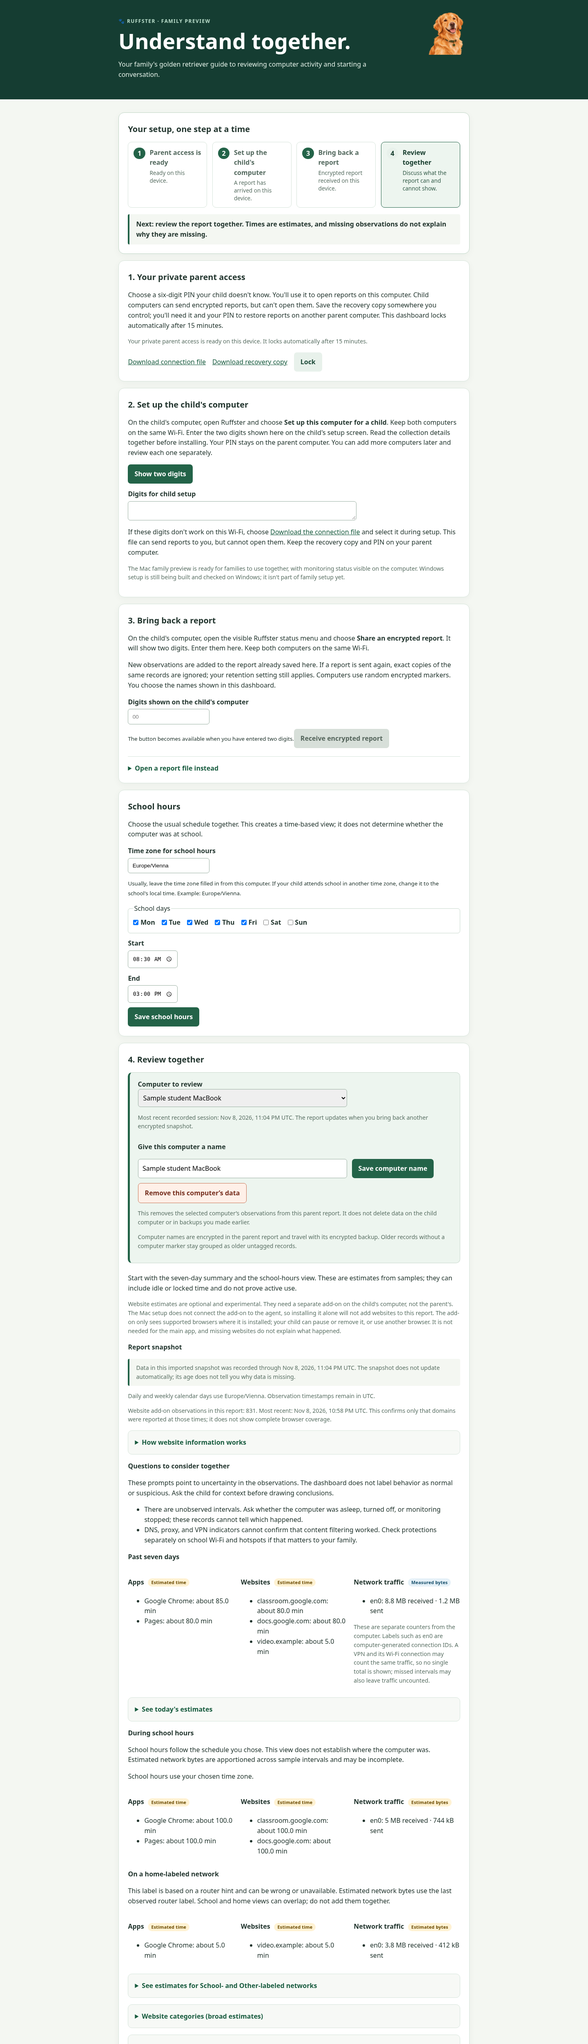
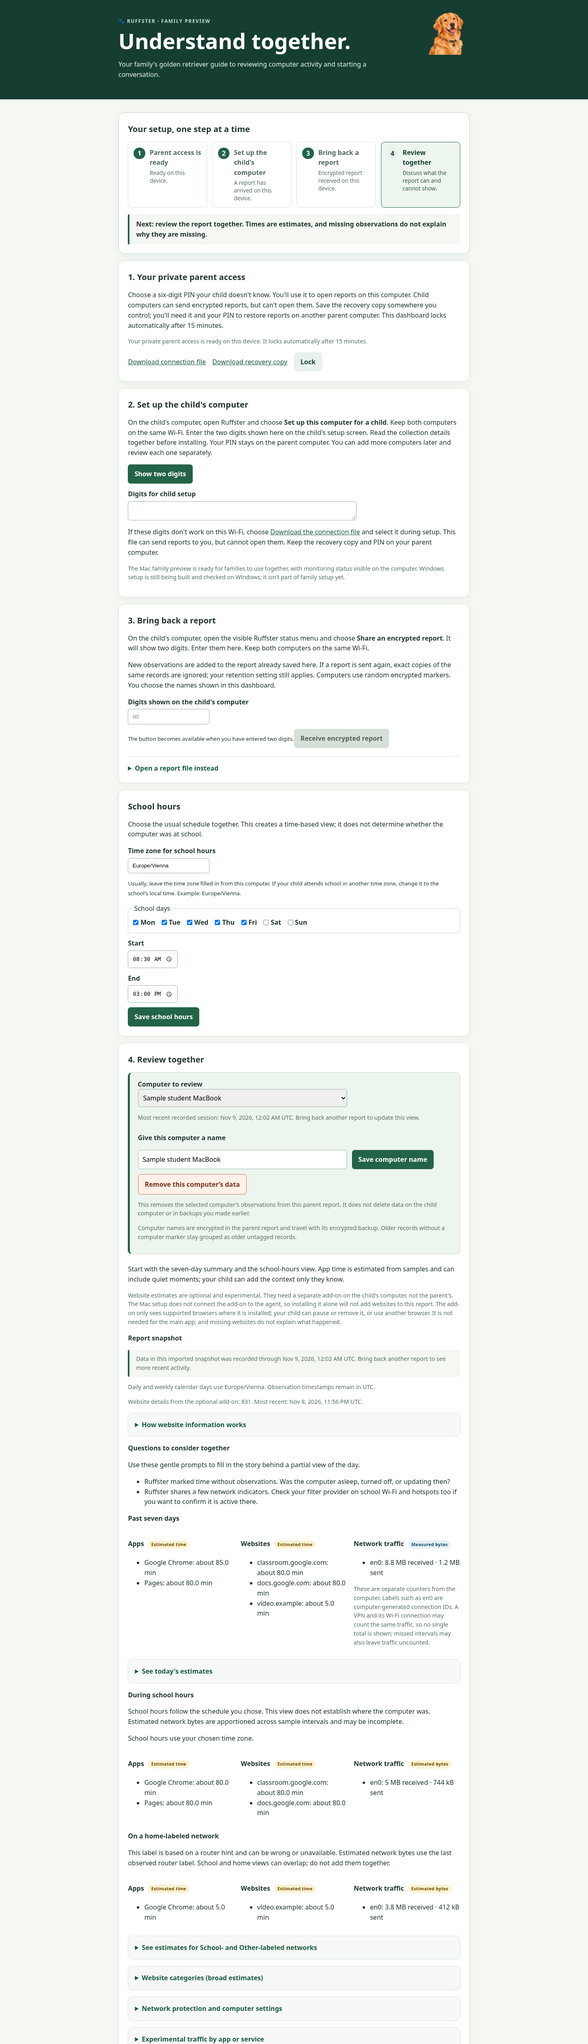
Make report prompts more constructive

Changed region(s): [[0.2188, 0.5616, 0.7812, 1.0]]

diff --git a/family_activity/parent_assets/index.html b/family_activity/parent_assets/index.html
@@ -11,19 +11,19 @@
 
 <section class="card" id="child-setup" hidden><h2>2. Set up the child's computer</h2><p>On the child's computer, open Ruffster and choose <strong>Set up this computer for a child</strong>. Keep both computers on the same Wi-Fi. Enter the two digits shown here on the child's setup screen. Read the collection details together before installing. Your PIN stays on the parent computer. You can add more computers later and review each one separately.</p><div class="row"><button id="prepare-key-share" type="button" disabled>Show two digits</button><button id="copy-key-code" class="secondary" type="button" hidden>Copy digits</button><button id="stop-key-share" class="secondary" type="button" hidden>Stop sharing</button></div><label for="public-key-code">Digits for child setup</label><textarea id="public-key-code" rows="1" readonly hidden></textarea><p id="key-share-note" class="fine" aria-live="polite"></p><p>If these digits don't work on this Wi-Fi, choose <a id="download-public-fallback" href="/api/public" download="ruffster-public.key" hidden>Download the connection file</a> and select it during setup. This file can send reports to you, but cannot open them. Keep the recovery copy and PIN on your parent computer.</p><p class="fine">The Mac family preview is ready for families to use together, with monitoring status visible on the computer. Windows setup is still being built and checked on Windows; it isn't part of family setup yet.</p></section>
 <section class="card" id="report-transfer" hidden><h2>3. Bring back a report</h2><p>On the child's computer, open the visible Ruffster status menu and choose <strong>Share an encrypted report</strong>. It will show two digits. Enter them here. Keep both computers on the same Wi-Fi.</p><p>New observations are added to the report already saved here. If a report is sent again, exact copies of the same records are ignored; your retention setting still applies. Computers use random encrypted markers. You choose the names shown in this dashboard.</p><label for="connection-code">Digits shown on the child's computer</label><input id="connection-code" inputmode="numeric" maxlength="2" autocomplete="off" placeholder="00" aria-describedby="connection-code-help"><small id="connection-code-help">The button becomes available when you have entered two digits.</small><button id="connect" type="button" disabled>Receive encrypted report</button><details><summary>Open a report file instead</summary><p>Choose a complete, consistent encrypted SQLite copy from the child's computer.</p><label for="report-file">Encrypted report file</label><input id="report-file" type="file"><button id="import" type="button">Open report</button><p class="fine">Files up to 256 MiB are supported. Large reports can take time and memory to open. The decrypted report is held in memory; the encrypted copy is stored on this device.</p></details></section>
-<section class="card" id="school-settings" hidden><h2>School hours</h2><p>Choose the usual schedule together. This creates a time-based view; it does not determine whether the computer was at school.</p>
+<section class="card" id="school-settings" hidden><h2>School hours</h2><p>Choose the schedule that matches a usual school day, then add your family’s context as you review the report.</p>
 <form id="schedule-form"><label for="zone">Time zone for school hours</label><input id="zone" type="text" aria-describedby="zone-help" placeholder="Europe/Vienna" required><small id="zone-help">Usually, leave the time zone filled in from this computer. If your child attends school in another time zone, change it to the school's local time. Example: Europe/Vienna.</small><fieldset><legend>School days</legend><div class="days"><label><input type="checkbox" name="school-day" value="0">Mon</label><label><input type="checkbox" name="school-day" value="1">Tue</label><label><input type="checkbox" name="school-day" value="2">Wed</label><label><input type="checkbox" name="school-day" value="3">Thu</label><label><input type="checkbox" name="school-day" value="4">Fri</label><label><input type="checkbox" name="school-day" value="5">Sat</label><label><input type="checkbox" name="school-day" value="6">Sun</label></div></fieldset><label for="school-start">Start</label><input type="time" id="school-start" required><label for="school-end">End</label><input type="time" id="school-end" required><button type="submit">Save school hours</button></form></section>
 <section class="card report-card" id="report" hidden>
 <h2>4. Review together</h2>
 <div class="device-picker"><label for="report-device">Computer to review</label><select id="report-device"></select><p id="device-last-seen" class="fine"></p><form id="device-label-form"><label for="device-label">Give this computer a name</label><input id="device-label" type="text" maxlength="48" autocomplete="off" required><button type="submit">Save computer name</button></form><button id="delete-computer" class="secondary danger" type="button" hidden>Remove this computer’s data</button><p id="delete-computer-help" class="fine">This removes the selected computer’s observations from this parent report. It does not delete data on the child computer or in backups you made earlier.</p><p class="fine">Computer names are encrypted in the parent report and travel with its encrypted backup. Older records without a computer marker stay grouped as older untagged records.</p></div>
-<p>Start with the seven-day summary and the school-hours view. These are estimates from samples; they can include idle or locked time and do not prove active use.</p>
-<p class="fine">Website estimates are optional and experimental. They need a separate add-on on the child's computer, not the parent's. The Mac setup does not connect the add-on to the agent, so installing it alone will not add websites to this report. The add-on only sees supported browsers where it is installed; your child can pause or remove it, or use another browser. It is not needed for the main app, and missing websites do not explain what happened.</p>
+<p>Start with the seven-day summary and the school-hours view. App time is estimated from samples and can include quiet moments; your child can add the context only they know.</p>
+<p class="fine">Website estimates are optional and experimental. They need a separate add-on on the child's computer, not the parent's. The Mac setup does not connect the add-on to the agent, so installing it alone will not add websites to this report. The add-on only sees supported browsers where it is installed; your child can pause or remove it, or use another browser. It is not needed for the main app; the report still shows app and network summaries without website details.</p>
 <h3>Report snapshot</h3><p id="snapshot-note" class="fine"></p><p id="report-timezone-note" class="fine"></p><p id="website-status" class="fine" role="status" aria-live="polite"></p>
 <details><summary>How website information works</summary><p>The add-on runs inside supported browsers on the child's computer. It reports domain names only, not full addresses or page contents. Your child can pause or remove it. If a report has no website observations, it cannot tell whether the add-on was paused, disconnected, or simply had nothing to report.</p></details>
-<h3>Questions to consider together</h3><p>These prompts point to uncertainty in the observations. The dashboard does not label behavior as normal or suspicious. Ask the child for context before drawing conclusions.</p><ul id="conversation-prompts"></ul>
+<h3>Questions to consider together</h3><p>Use these gentle prompts to fill in the story behind a partial view of the day.</p><ul id="conversation-prompts"></ul>
 <h3>Past seven days</h3><div class="grid"><div><h4>Apps <span class="measurement-tag estimate">Estimated time</span></h4><ul id="apps-week"></ul></div><div><h4>Websites <span class="measurement-tag estimate">Estimated time</span></h4><ul id="sites-week"></ul></div><div><h4>Network traffic <span class="measurement-tag measured">Measured bytes</span></h4><ul id="traffic-week-summary"></ul><p class="fine">These are separate counters from the computer. Labels such as en0 are computer-generated connection IDs. A VPN and its Wi-Fi connection may count the same traffic, so no single total is shown; missed intervals may also leave traffic uncounted.</p></div></div>
 <details><summary>See today's estimates</summary><p>Short intervals can be missed between samples. These estimates do not prove active use.</p><div class="grid"><div><h4>Apps today <span class="measurement-tag estimate">Estimated time</span></h4><ul id="apps"></ul></div><div><h4>Websites today <span class="measurement-tag estimate">Estimated time</span></h4><ul id="sites"></ul></div></div></details>
-<h3>During school hours</h3><p>School hours follow the schedule you chose. This view does not establish where the computer was. Estimated network bytes are apportioned across sample intervals and may be incomplete.</p><p id="schedule-note"></p><div class="grid"><div><h4>Apps <span class="measurement-tag estimate">Estimated time</span></h4><ul id="school-apps"></ul></div><div><h4>Websites <span class="measurement-tag estimate">Estimated time</span></h4><ul id="school-sites"></ul></div><div><h4>Network traffic <span class="measurement-tag estimate">Estimated bytes</span></h4><ul id="school-traffic"></ul></div></div>
+<h3>During school hours</h3><p>This time-based view follows the schedule your family chose; add context together as you review it. Estimated network bytes are apportioned across sample intervals and may be incomplete.</p><p id="schedule-note"></p><div class="grid"><div><h4>Apps <span class="measurement-tag estimate">Estimated time</span></h4><ul id="school-apps"></ul></div><div><h4>Websites <span class="measurement-tag estimate">Estimated time</span></h4><ul id="school-sites"></ul></div><div><h4>Network traffic <span class="measurement-tag estimate">Estimated bytes</span></h4><ul id="school-traffic"></ul></div></div>
 <h3>On a home-labeled network</h3><p>This label is based on a router hint and can be wrong or unavailable. Estimated network bytes use the last observed router label. School and home views can overlap; do not add them together.</p><div class="grid"><div><h4>Apps <span class="measurement-tag estimate">Estimated time</span></h4><ul id="home-apps"></ul></div><div><h4>Websites <span class="measurement-tag estimate">Estimated time</span></h4><ul id="home-sites"></ul></div><div><h4>Network traffic <span class="measurement-tag estimate">Estimated bytes</span></h4><ul id="home-traffic"></ul></div></div>
 <details><summary>See estimates for School- and Other-labeled networks</summary><p>These estimates follow the router labels you set under Network changes below. A School label is separate from your school-hours schedule; neither proves where the computer was. Network-label estimates skip sample intervals with a recorded router change, and traffic intervals that end at or cross a router change are left out. Views can overlap across interfaces and with school-hours estimates.</p><h4>On a School-labeled network</h4><div class="grid"><div><h5>Apps <span class="measurement-tag estimate">Estimated time</span></h5><ul id="school-network-apps"></ul></div><div><h5>Websites <span class="measurement-tag estimate">Estimated time</span></h5><ul id="school-network-sites"></ul></div><div><h5>Network traffic <span class="measurement-tag estimate">Estimated bytes</span></h5><ul id="school-network-traffic"></ul></div></div><h4>On an Other-labeled network</h4><div class="grid"><div><h5>Apps <span class="measurement-tag estimate">Estimated time</span></h5><ul id="other-network-apps"></ul></div><div><h5>Websites <span class="measurement-tag estimate">Estimated time</span></h5><ul id="other-network-sites"></ul></div><div><h5>Network traffic <span class="measurement-tag estimate">Estimated bytes</span></h5><ul id="other-network-traffic"></ul></div></div></details>
 <details><summary>Website categories (broad estimates)</summary><p>Hints from domain names only. Shared services can fit more than one category; unknown sites stay uncategorized. Categories do not indicate whether an activity is good or bad.</p><div class="grid"><div><h4>Today</h4><ul id="categories-today"></ul></div><div><h4>Past seven days</h4><ul id="categories-week"></ul></div><div><h4>During school hours</h4><ul id="categories-school"></ul></div><div><h4>On a home-labeled network</h4><ul id="categories-home"></ul></div><div><h4>On a School-labeled network</h4><ul id="categories-school-network"></ul></div><div><h4>On an Other-labeled network</h4><ul id="categories-other-network"></ul></div></div></details>
@@ -32,7 +32,7 @@
 <h3>Network protection indicators <span class="measurement-tag observed">Observed settings</span></h3><p id="settings-observed">No system settings observation is in this report.</p><ul id="settings-list"></ul><p>These indicators do not confirm that content filtering is active. A DNS resolver can be ordinary, and browser encrypted DNS, an app's own DNS, a school proxy, or a managed VPN may not appear here.</p><ul><li>A filter set up only on your home router normally applies while the computer uses that router. By itself, it does not follow the computer to school Wi-Fi or a mobile hotspot.</li><li>A device profile or filtering app may work on other networks if that setup supports them and remains allowed and active. A VPN, browser's secure DNS, or school-managed setting can change which service handles DNS.</li><li>Check the filter provider's own status or supported test separately on home Wi-Fi, school Wi-Fi, and a hotspot. Ask the school before changing settings on a school-managed computer. This report cannot verify that filtering works.</li></ul><p>For example, <a href="https://help.nextdns.io/t/m1hmv0k/which-setup-type-to-use" target="_blank" rel="noopener noreferrer">NextDNS explains its device and router setup choices</a>. Review any service's privacy and retention terms before choosing it. A proxy can be normal on a school or work device; treat an indicator as a prompt to understand the setup, not as evidence of misconduct.</p>
 <h3>Network traffic <span class="measurement-tag measured">Measured interface bytes</span></h3><p>Recorded counter changes, grouped by the local date of each interval's end. These are per-interface totals: interfaces can overlap, and missed intervals may leave traffic uncounted. They cannot be attributed to individual websites or apps.</p><div><h4>Today</h4><ul id="traffic-today"></ul></div><details><summary>See recent measurements</summary><ul id="traffic"></ul></details></details>
 <details><summary>Experimental traffic by app or service</summary><p id="process-traffic-status">This optional Mac measurement is not included in this report.</p><p>These measured byte changes are grouped by the process that owns a network connection. Helper services may appear separately, and short-lived or unobserved connections may be missing. This does not identify websites, and these totals cannot be split into home, school, or network-interface totals. Missing rows do not mean zero traffic.</p><div class="grid"><div><h4>Today <span class="measurement-tag measured">Measured bytes</span></h4><ul id="process-traffic-today"></ul></div><div><h4>Past seven days <span class="measurement-tag measured">Measured bytes</span></h4><ul id="process-traffic-week"></ul></div></div></details>
-<details><summary>Monitoring coverage details</summary><p id="coverage"></p><h3>Unobserved intervals</h3><p>The reason for a gap is unknown. It can reflect sleep, a crash, missing permissions, or another interruption; it does not prove what the child was doing.</p><ul id="gaps"></ul></details>
+<details><summary>Monitoring coverage details</summary><p id="coverage"></p><h3>Unobserved intervals</h3><p>Ruffster marks when observations pause. That gives your family a chance to add what was happening together.</p><ul id="gaps"></ul></details>
 </section>
 <section class="card" id="retention-settings" hidden><h2>Keep your parent report</h2><p>This controls how long detailed records stay in the encrypted report on this device. Older events are removed when you import or open a report, and immediately when you shorten this setting. The child's computer has a separate retention setting.</p><form id="retention-form"><label for="retention-days">Keep detailed records for</label><select id="retention-days"><option value="7">7 days</option><option value="30">30 days</option><option value="90">90 days</option><option value="180">180 days</option><option value="365">365 days</option></select><button type="submit">Save report retention</button></form><div class="row"><a id="download-report-backup" href="/api/report-backup" download="ruffster-report.sqlite3" hidden>Download encrypted report backup</a><button id="delete-report" class="secondary" type="button" hidden>Delete this whole parent report from this device</button></div><p class="fine">An exported report backup stays encrypted, but it is outside this retention setting and is not removed by the delete button. Store it safely. Deleting this whole parent report removes the combined encrypted database from this device and keeps the parent key.</p></section>
-<section class="note"><h2>Made for family conversations</h2><p>Review the collection choices together and keep monitoring status visible. Ruffster records app names, overall network totals, and a few network settings it can observe. It does not collect screenshots, keystrokes, microphone or camera data, or message contents.</p><p>Reports show what Ruffster observed. They do not tell you why an observation is missing, prove where the computer was, or identify traffic used by a particular website.</p></section></main></body></html>
+<section class="note"><h2>Made for family conversations</h2><p>Review the collection choices together and keep monitoring status visible. Ruffster records app names, overall network totals, and a few network settings it can observe. It never collects screenshots, keystrokes, microphone or camera data, or message contents.</p><p>Reports are snapshots to explore together. They show when Ruffster recorded activity and leave space for your family's own context.</p></section></main></body></html>

diff --git a/family_activity/parent_assets/app.js b/family_activity/parent_assets/app.js
@@ -233,24 +233,24 @@ async function render() {
   $('delete-computer').hidden = !selected;
   $('device-label').value = selected ? selected.label : '';
   $('device-last-seen').textContent = selected
-    ? `Most recent recorded session: ${formatUtcTimestamp(selected.last_seen)}. The report updates when you bring back another encrypted snapshot.`
-    : 'No computer sessions were found in this report.';
+    ? `Most recent recorded session: ${formatUtcTimestamp(selected.last_seen)}. Bring back another report to update this view.`
+    : 'No computer sessions have been added to this report yet.';
   list('conversation-prompts', data.conversation_prompts || [], value => value);
   const freshness = data.recorded_through
-    ? `Data in this imported snapshot was recorded through ${formatUtcTimestamp(data.recorded_through)}. The snapshot does not update automatically; its age does not tell you why data is missing.`
-    : 'This report contains no dated activity observations. The snapshot does not update automatically.';
+    ? `Data in this imported snapshot was recorded through ${formatUtcTimestamp(data.recorded_through)}. Bring back another report to see more recent activity.`
+    : 'No dated activity has been added to this report yet.';
   const runtime = data.agent_runtime || {seconds:0,sessions:0,gaps:0};
   const runtimeHours = Math.floor(runtime.seconds / 3600);
   const runtimeMinutes = Math.floor((runtime.seconds % 3600) / 60);
   const runtimeText = runtime.sessions
-    ? `Recorded agent runtime in the past ${runtime.days} days: about ${runtimeHours} hr ${runtimeMinutes} min across ${runtime.sessions} session(s), with ${runtime.gaps} observed gap(s). This describes agent session boundaries; it cannot confirm every sample succeeded or that the computer was actively used.`
-    : `No dated agent runtime was available for the past ${runtime.days || 7} days. This does not mean the computer was unused.`;
+    ? `Recorded agent runtime in the past ${runtime.days} days: about ${runtimeHours} hr ${runtimeMinutes} min across ${runtime.sessions} session(s), with ${runtime.gaps} observed gap(s). Ruffster uptime shows when the agent was running; it is separate from estimated app time.`
+    : `No Ruffster uptime was recorded for the past ${runtime.days || 7} days.`;
   $('snapshot-note').textContent = freshness;
   $('report-timezone-note').textContent = `Daily and weekly calendar days use ${data.report_timezone || 'UTC'}. Observation timestamps remain in UTC.`;
   const websiteObservations = data.website_observations || {count: 0, latest_at: null};
   $('website-status').textContent = websiteObservations.count > 0
-    ? `Website add-on observations in this report: ${websiteObservations.count}. Most recent: ${formatUtcTimestamp(websiteObservations.latest_at)}. This confirms only that domains were reported at those times; it does not show complete browser coverage.`
-    : 'Website add-on observations: none in this report. The add-on may be absent, paused, disconnected, or there may have been no eligible browser activity; this report cannot tell which.';
+    ? `Website details from the optional add-on: ${websiteObservations.count}. Most recent: ${formatUtcTimestamp(websiteObservations.latest_at)}.`
+    : 'No website details were recorded in this report. Website sharing is optional; see “How website information works” for details.';
   $('coverage').textContent = `${runtimeText} ${data.incomplete ? 'Some older session starts are unavailable, so coverage may be incomplete. ' : ''}${data.sessions.length} recent session record(s) and ${data.gaps.length} unobserved interval(s) shown (up to 20 of each).`;
   const formatTime = ([name,seconds]) => `${name}: about ${(seconds/60).toFixed(1)} min`;
   const formatBytes = value => {
@@ -260,10 +260,10 @@ async function render() {
     return `${amount.toLocaleString(undefined, {maximumFractionDigits: unit ? 1 : 0})} ${units[unit]}`;
   };
   const formatTrafficTotal = ([iface,received,sent]) => `${iface}: ${formatBytes(received)} received · ${formatBytes(sent)} sent`;
-  list('apps', data.apps.today, formatTime, 'No app observations are in this report. This does not show whether apps were used.');
-  list('sites', data.sites.today, formatTime, 'No website observations are in this report. This does not show whether websites were used.');
-  list('apps-week', data.apps.week, formatTime, 'No app observations are in this report. This does not show whether apps were used.');
-  list('sites-week', data.sites.week, formatTime, 'No website observations are in this report. This does not show whether websites were used.');
+  list('apps', data.apps.today, formatTime, 'No app details were recorded for this period.');
+  list('sites', data.sites.today, formatTime, 'No website details were recorded for this period.');
+  list('apps-week', data.apps.week, formatTime, 'No app details were recorded for this period.');
+  list('sites-week', data.sites.week, formatTime, 'No website details were recorded for this period.');
   const categoryFormat = ([name,seconds]) => `${name}: about ${(seconds/60).toFixed(1)} min`;
   list('categories-today', data.site_categories.today, categoryFormat, 'No website observations could be categorized.');
   list('categories-week', data.site_categories.week, categoryFormat, 'No website observations could be categorized.');
@@ -271,17 +271,17 @@ async function render() {
   list('school-apps', data.contexts.apps.school, format, 'No app observations are available for these scheduled hours.');
   list('school-sites', data.contexts.sites.school, format, 'No website observations are available for these scheduled hours.');
   list('school-traffic', data.traffic_contexts.school, formatTrafficTotal,
-       'No traffic intervals could be placed in these scheduled hours. This does not show that traffic was zero.');
+       'No network measurements were available for these scheduled hours.');
   list('home-apps', data.contexts.apps.home, format, 'No app observations are available for this network label.');
   list('home-sites', data.contexts.sites.home, format, 'No website observations are available for this network label.');
   list('home-traffic', data.traffic_contexts.home, formatTrafficTotal,
-       'No traffic intervals could be linked to a home-labeled network. This does not show that traffic was zero.');
-  list('school-network-apps', data.contexts.apps.school_network, format, 'No app observations are linked to a School-labeled network. This does not establish where the computer was.');
+       'No network measurements were available for this Home-labeled network.');
+  list('school-network-apps', data.contexts.apps.school_network, format, 'No app details were recorded for this School-labeled network.');
   list('school-network-sites', data.contexts.sites.school_network, format, 'No website observations are linked to a School-labeled network.');
-  list('school-network-traffic', data.traffic_contexts.school_network, formatTrafficTotal, 'No counter intervals were linked to a School-labeled network. This does not show that traffic was zero.');
+  list('school-network-traffic', data.traffic_contexts.school_network, formatTrafficTotal, 'No network measurements were available for this School-labeled network.');
   list('other-network-apps', data.contexts.apps.other_network, format, 'No app observations are linked to an Other-labeled network.');
   list('other-network-sites', data.contexts.sites.other_network, format, 'No website observations are linked to an Other-labeled network.');
-  list('other-network-traffic', data.traffic_contexts.other_network, formatTrafficTotal, 'No counter intervals were linked to an Other-labeled network. This does not show that traffic was zero.');
+  list('other-network-traffic', data.traffic_contexts.other_network, formatTrafficTotal, 'No network measurements were available for this Other-labeled network.');
   list('categories-school', data.category_contexts.school, categoryFormat, 'No categorized website observations are available for these hours.');
   list('categories-home', data.category_contexts.home, categoryFormat, 'No categorized website observations are available for this network label.');
   list('categories-school-network', data.category_contexts.school_network, categoryFormat, 'No categorized website observations are linked to a School-labeled network.');
@@ -291,7 +291,7 @@ async function render() {
   const settingLines = [];
   if (settings) {
     $('settings-observed').textContent = `Last observed ${formatUtcTimestamp(settings.sampled_at)}. These are indicators from the operating-system settings the agent can inspect.`;
-    settingLines.push(`DNS configuration: ${settings.dns_observed === true ? 'a resolver address appeared in the inspected settings; this does not show which resolver was active or whether filtering works' : settings.dns_observed === false ? 'no resolver address appeared among the inspected settings; other DNS paths may still apply' : 'unavailable'}`);
+    settingLines.push(`DNS configuration: ${settings.dns_observed === true ? 'a resolver address appeared in the settings Ruffster can inspect' : settings.dns_observed === false ? 'no resolver address appeared in the settings Ruffster can inspect' : 'unavailable'}`);
     settingLines.push(`System proxy: ${settings.proxy_indicator === true ? 'a supported proxy setting was enabled' : settings.proxy_indicator === false ? 'no enabled supported proxy setting was reported' : 'unknown'}`);
     settingLines.push(`VPN connection: ${settings.vpn_indicator === true ? 'a supported VPN connection appears active; other VPN apps may not be detected' : settings.vpn_indicator === false ? 'no built-in VPN connection appeared active; other VPN apps may not be detected' : 'could not check VPN status; some VPN apps may not be detected'}`);
   } else {
@@ -299,15 +299,15 @@ async function render() {
   }
   list('settings-list', settingLines, value => value);
   list('traffic-today', data.traffic_usage.today, formatTrafficTotal,
-       'No traffic intervals are available for today. This does not show that traffic was zero.');
+       'No network measurements are available for today.');
   list('traffic-week-summary', data.traffic_usage.week, formatTrafficTotal,
-       'No traffic intervals are available for these seven days. This does not show that traffic was zero.');
+       'No network measurements are available for these seven days.');
   list('traffic', data.traffic, ([at,iface,received,sent]) => `${formatUtcTimestamp(at)} · ${iface}: ${formatBytes(received)} received, ${formatBytes(sent)} sent`, 'No interface measurements were recorded in this report.');
   const processTraffic = data.process_traffic || {status: null, today: [], week: []};
   $('process-traffic-status').textContent = processTraffic.status === 'enabled'
     ? 'This optional Mac source was enabled. It records process-associated byte deltas, not website traffic. Some connections may belong to helper services.'
     : processTraffic.status === 'unavailable'
-      ? 'The optional process measurement stopped reporting. Missing values do not mean zero traffic.'
+      ? 'The optional process-based network measurement was unavailable during this session.'
       : processTraffic.status === 'disabled'
         ? 'Process-associated network totals were turned off during the latest monitoring session.'
         : processTraffic.status === 'unsupported'
@@ -315,9 +315,9 @@ async function render() {
           : 'Process-associated network totals were not included in this report. They may not have been enabled on the child’s Mac.';
   const formatProcessTraffic = ([process,received,sent]) => `${process}: ${formatBytes(received)} received · ${formatBytes(sent)} sent`;
   list('process-traffic-today', processTraffic.today, formatProcessTraffic,
-       'No process byte changes were available for today. This does not show that traffic was zero.');
+       'No process-based network measurements were recorded today.');
   list('process-traffic-week', processTraffic.week, formatProcessTraffic,
-       'No process byte changes were available for these seven days. This does not show that traffic was zero.');
+       'No process-based network measurements were recorded for these seven days.');
   const networks = $('networks'); networks.replaceChildren();
   if (!data.networks.length) networks.textContent = 'No identified routers in this report.';
   for (const network of data.networks) {
@@ -334,7 +334,7 @@ async function render() {
     });
     row.append(label,select); networks.appendChild(row);
   }
-  list('gaps', data.gaps, ([start,end]) => `${formatUtcTimestamp(start)} to ${formatUtcTimestamp(end)} — cause unknown`, 'No gaps were recorded in this report. This does not prove monitoring was continuous.');
+  list('gaps', data.gaps, ([start,end]) => `${formatUtcTimestamp(start)} to ${formatUtcTimestamp(end)} — no observations recorded`, 'No pauses are listed in this report.');
 }
 $('report-device').addEventListener('change', async () => {
   selectedDeviceId = $('report-device').value;

diff --git a/docs/index.html b/docs/index.html
@@ -171,23 +171,23 @@
       </article>
       <article class="measure unknown">
        <h3>
-        What it cannot conclude
+        What to read with context
        </h3>
        <ul>
         <li>
-         Whether a child was actively using an app between samples.
+         Time between samples is an estimate and can include idle time.
         </li>
         <li>
-         Which website or app caused interface-level network traffic.
+         Interface totals do not identify the websites or apps that used them.
         </li>
         <li>
-         Which website used process-associated bytes; helper services may own connections, and brief connections can be missed.
+         Process totals may list helper services, and quick connections can be missed.
         </li>
         <li>
-         Why monitoring stopped or a network changed.
+         Why an observation paused or a network changed.
         </li>
         <li>
-         Whether a filter is working, or whether activity was appropriate.
+         Whether a content filter is working; network settings need context.
         </li>
        </ul>
       </article>

diff --git a/tests/test_parent_app.py b/tests/test_parent_app.py
@@ -54,22 +54,22 @@ class ParentAppTests(unittest.TestCase):
         self.assertEqual(self.request('POST', '/api/confirm-key-backup', {'confirmed':True})[0], 200)
         return backup
 
-    def test_conversation_prompts_are_cautious_and_tied_to_observations(self):
+    def test_conversation_prompts_are_welcoming_and_tied_to_observations(self):
         from family_activity.parent_app import _conversation_prompts
         report = {'sessions':[('start','heartbeat','stop')], 'incomplete':False, 'gaps':[],
                   'networks':[], 'network_settings':{'dns_observed':True,'proxy_indicator':False,'vpn_indicator':False}}
         prompts = _conversation_prompts(report)
-        self.assertTrue(any('cannot confirm' in prompt for prompt in prompts))
+        self.assertTrue(any('filter provider' in prompt for prompt in prompts))
         self.assertFalse(any(term in ' '.join(prompts).lower() for term in ('suspicious','misconduct','tampering')))
         report.update({'sessions':[], 'incomplete':True, 'gaps':[('from','to')],
                        'networks':[{'label':None}],
                        'network_settings':{'dns_observed':None,'proxy_indicator':True,'vpn_indicator':None}})
         prompts = _conversation_prompts(report)
-        self.assertTrue(any('no recent agent sessions' in prompt for prompt in prompts))
-        self.assertTrue(any('coverage is incomplete' in prompt for prompt in prompts))
-        self.assertTrue(any('unobserved intervals' in prompt for prompt in prompts))
-        self.assertTrue(any('unlabeled' in prompt for prompt in prompts))
-        self.assertTrue(any('school-managed' in prompt for prompt in prompts))
+        self.assertTrue(any('no recent ruffster sessions' in prompt.lower() for prompt in prompts))
+        self.assertTrue(any('starts partway through a session' in prompt for prompt in prompts))
+        self.assertTrue(any('without observations' in prompt for prompt in prompts))
+        self.assertTrue(any('new network to label' in prompt for prompt in prompts))
+        self.assertTrue(any('proxy or VPN setting appeared' in prompt for prompt in prompts))
 
     def test_parent_dashboard_has_a_live_four_step_setup_guide(self):
         status, _, page = self.request('GET', '/')
@@ -117,9 +117,9 @@ class ParentAppTests(unittest.TestCase):
         self.assertIn(b"$('report-transfer').hidden = !status.unlocked", script)
         self.assertIn(b"status.has_report", script)
         self.assertIn(b'Recorded agent runtime', script)
-        self.assertIn(b'cannot confirm every sample succeeded', script)
-        self.assertIn(b'This does not show whether websites were used.', script)
-        self.assertIn(b'This does not prove monitoring was continuous.', script)
+        self.assertIn(b'Ruffster uptime shows when the agent was running', script)
+        self.assertIn(b'No website details were recorded for this period.', script)
+        self.assertIn(b'No pauses are listed in this report.', script)
         status, _, styles = self.request('GET', '/app.css')
         self.assertEqual(status, 200)
         self.assertIn(b'.steps li.current', styles)
@@ -310,7 +310,7 @@ class ParentAppTests(unittest.TestCase):
         status, _, report = self.request('GET', '/api/report')
         self.assertEqual(status, 200)
         report_data=json.loads(report)
-        self.assertTrue(any('cannot confirm' in prompt for prompt in report_data['conversation_prompts']))
+        self.assertTrue(any('network indicators' in prompt for prompt in report_data['conversation_prompts']))
         self.assertEqual(len(report_data['sessions']), 1)
         self.assertIn('agent_runtime', report_data)
         self.assertGreaterEqual(report_data['agent_runtime']['seconds'], 0)
@@ -485,7 +485,7 @@ class ParentAppTests(unittest.TestCase):
             self.assertEqual(database.execute('SELECT count(*) FROM encrypted_events').fetchone()[0], merged_count)
         report = json.loads(self.request('GET', '/api/report')[2])
         self.assertEqual(len(report['sessions']), 2)
-        self.assertEqual({entry[0] for entry in report['apps']['today']},
+        self.assertEqual({entry[0] for entry in report['apps']['week']},
                          {'EarlierSyntheticApp', 'NewerSyntheticApp'})
         stored = self.server.data.read_bytes()
         self.assertNotIn(b'EarlierSyntheticApp', stored)
@@ -531,7 +531,7 @@ class ParentAppTests(unittest.TestCase):
             report = json.loads(content)
             self.assertEqual(report['selected_device'], device_id)
             self.assertEqual(len(report['sessions']), 1)
-            app_names = {entry[0] for entry in report['apps']['today']}
+            app_names = {entry[0] for entry in report['apps']['week']}
             self.assertIn(own_app, app_names)
             self.assertNotIn(other_snapshot[1], app_names)
         self.assertEqual(self.request('GET', '/api/report?device=not-a-device')[0], 400)

diff --git a/family_activity/parent_app.py b/family_activity/parent_app.py
@@ -791,22 +791,22 @@ def _conversation_prompts(report):
     """Suggest context questions from observations; never classify behavior."""
     prompts = []
     if not report['sessions']:
-        prompts.append('This report has no recent agent sessions. Check whether monitoring was active and when the report was last updated; missing observations do not mean the computer was unused.')
+        prompts.append('No recent Ruffster sessions are in this report. Check when the report was last shared and whether Ruffster is running.')
     if report['incomplete']:
-        prompts.append('Some older session starts are missing, so coverage is incomplete. Retention or earlier gaps can explain this; the report cannot identify a cause.')
+        prompts.append('This report starts partway through a session, so earlier activity may not be included.')
     if report['gaps']:
-        prompts.append('There are unobserved intervals. Ask whether the computer was asleep, turned off, or monitoring stopped; these records cannot tell which happened.')
+        prompts.append('Ruffster marked time without observations. Was the computer asleep, turned off, or updating then?')
     if any(network['label'] is None for network in report['networks']):
-        prompts.append('One or more routers are unlabeled. Ask which network they might be; a router identifier is not proof of location.')
+        prompts.append('There’s a new network to label. Does it look like Home, School, or Other?')
     settings = report['network_settings']
     if settings is None:
-        prompts.append('No network-configuration sample is available, so this report cannot assess filtering setup.')
+        prompts.append('No recent network settings are in this report. Your filter provider can show whether protection is active.')
     else:
         if settings['proxy_indicator'] is True or settings['vpn_indicator'] is True:
-            prompts.append('A proxy or VPN indicator was observed. These can be expected on school-managed devices; ask whether either is part of the computer setup.')
-        prompts.append('DNS, proxy, and VPN indicators cannot confirm that content filtering worked. Check protections separately on school Wi-Fi and hotspots if that matters to your family.')
+            prompts.append('A proxy or VPN setting appeared. Does that match the school or home computer setup?')
+        prompts.append('Ruffster shares a few network indicators. Check your filter provider on school Wi-Fi and hotspots too if you want to confirm it is active there.')
     if not prompts:
-        prompts.append('These observations alone do not call for a specific follow-up. Ask the child for context before interpreting estimated time or app and website names.')
+        prompts.append('Want to add more context? Look together at the estimated time, app names, and any website details.')
     return prompts
 
 

diff --git a/tests/test_dashboard.py b/tests/test_dashboard.py
@@ -41,13 +41,13 @@ class DashboardTests(unittest.TestCase):
         self.assertIn("The add-on only sees supported browsers where it is installed", html)
         self.assertIn("pause or remove it, or use another browser", html)
         self.assertIn("It is not needed for the main app", html)
-        self.assertIn("missing websites do not explain what happened", html)
+        self.assertIn('report still shows app and network summaries without website details', html)
         self.assertIn("domain names only, not full addresses or page contents", html)
         self.assertIn('id="website-status"', html)
         script = (Path(__file__).parents[1] / 'family_activity' / 'parent_assets' / 'app.js').read_text()
-        self.assertIn('Website add-on observations: none in this report', script)
-        self.assertIn('this report cannot tell which', script)
-        self.assertIn('does not show complete browser coverage', script)
+        self.assertIn('No website details were recorded in this report', script)
+        self.assertIn('Website sharing is optional', script)
+        self.assertIn('How website information works', html)
 
     def test_report_shows_measured_network_usage_per_interface_by_period(self):
         html = (Path(__file__).parents[1] / 'family_activity' / 'parent_assets' / 'index.html').read_text()
@@ -67,7 +67,7 @@ class DashboardTests(unittest.TestCase):
         self.assertIn("data.traffic_usage.today", script)
         self.assertIn("data.traffic_usage.week", script)
         self.assertIn("traffic-week-summary", script)
-        self.assertIn('This does not show that traffic was zero.', script)
+        self.assertIn('No network measurements are available for today.', script)
         self.assertIn('id="school-traffic"', html)
         self.assertIn('id="home-traffic"', html)
         self.assertIn('Estimated bytes', html)

diff --git a/tests/test_docs_site.py b/tests/test_docs_site.py
@@ -197,8 +197,8 @@ class DocumentationSiteTests(unittest.TestCase):
     def test_home_page_discloses_limits_of_optional_mac_process_totals(self):
         home = (SITE / 'index.html').read_text(encoding='utf-8')
         self.assertIn('optional experimental summary of bytes associated with processes', home)
-        self.assertIn('Which website used process-associated bytes', home)
-        self.assertIn('helper services may own connections', home)
+        self.assertIn('Process totals may list helper services', home)
+        self.assertIn('quick connections can be missed', home)
 
     def test_filtering_guidance_explains_network_scope_and_school_settings(self):
         faq = (SITE / 'faq.html').read_text(encoding='utf-8')
